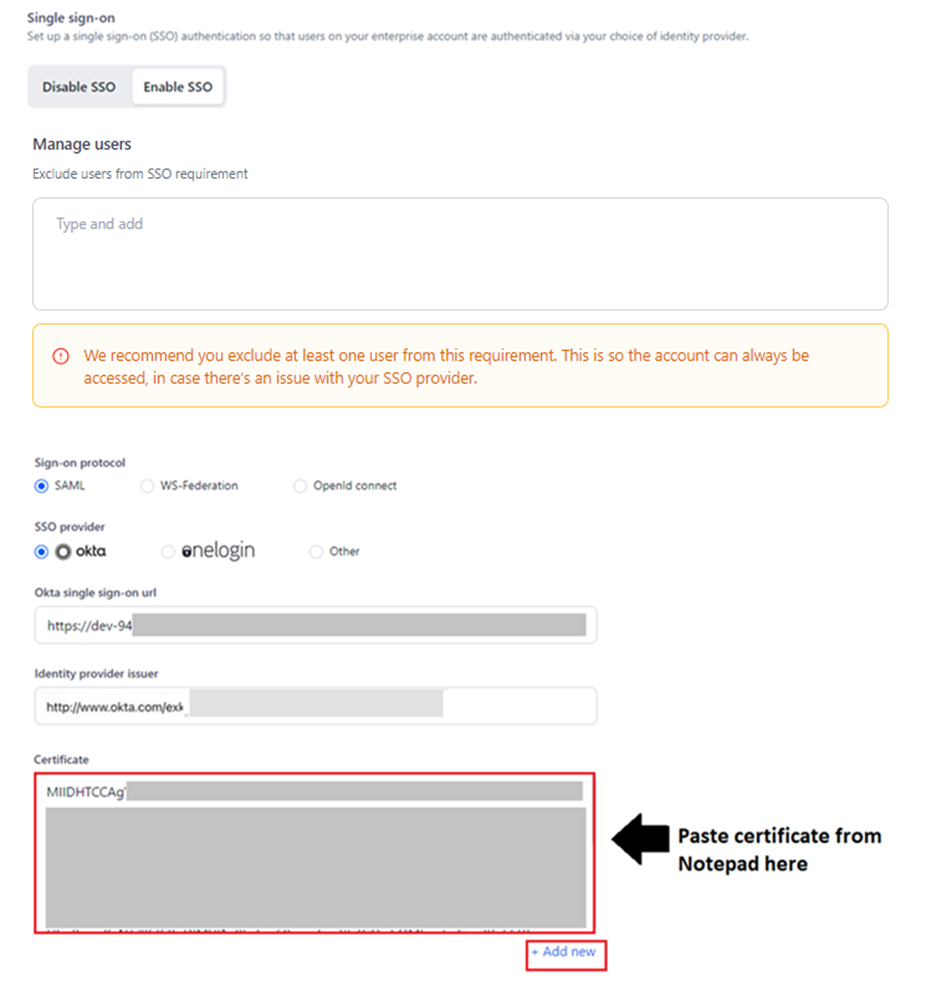
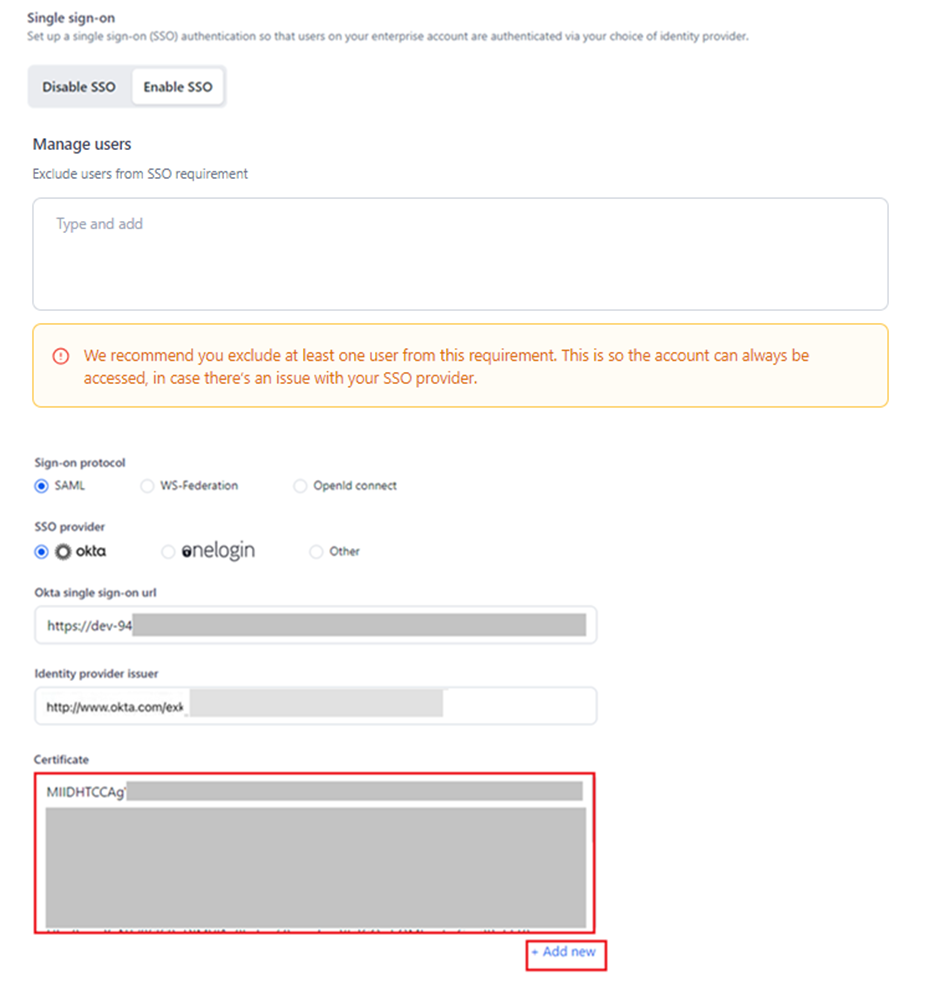
commit: sso page edits

Changed region(s): [[0.6652, 0.8101, 0.9374, 0.9035]]

diff --git a/docs/agent-platform/settings/security-and-control/single-sign-on.md b/docs/agent-platform/settings/security-and-control/single-sign-on.md
@@ -208,15 +208,11 @@ To enable SSO on the **Settings** console, follow the steps below:
 
 <ul><li><b>SAML</b>: <a href="#okta-configuration" target="_blank">Okta</a>, <a href="#onelogin-configuration" target="_blank">Onelogin</a>, or <a href="#other-configuration" target="_blank">Other</a>. <a href="#saml" target="_blank">Learn more</a>.</li>
 <li><b>WS-Federation</b>: <a href="#windows-azure-configuration" target="_blank">Windows Azure</a> or <a href="#other-configuration" target="_blank">Other</a>. <a href="#ws-federation" target="_blank">Learn more</a>.</li>
-<li><b>OpenId connect</b>: <a href="#google-configuration" target="_blank">Google</a>. <a [Learn more](#openid-connect-configuration) target="_blank"></a>.</li></ul>
+<li><b>OpenId connect</b>: <a href="#google-configuration" target="_blank">Google</a>. <a href="#openid-connect-configuration" target="_blank">Learn more</a></li></ul>
 
 <ol start="9"><li>Click <b>Save</b>.</li></ol>
 
-A success message is displayed once the SSO setup is complete.
-<img src="../images/sso-configuration-updated-successfully.png" alt="sso updated successfully message" title="sso updated successfully message" style="border: 1px solid gray; zoom:75%;">
-
-Additionally, the timestamp of when you enabled SSO is displayed as shown below:
-<img src="../images/sso-timestamp.png" alt="sso timestamp" title="sso timestamp" style="border: 1px solid gray; zoom:75%;">
+A success message is displayed once the SSO setup is complete along with the timestamp of when you enabled SSO.
 
 ## SAML
 
@@ -246,7 +242,6 @@ To configure SSO using SAML and Okta, follow the steps below:
 1. Go to Agent Platform’s **Single sign-on** page.
 2. Select the **Enable SSO** tab.
 3. Select **SAML** for **Sign-on protocol** and **Okta** for **SSO provider**.
-<img src="../images/saml-okta-selection.png" alt="saml-okta-selection" title="saml-okta-selection" style="border: 1px solid gray; zoom:75%;">
 
 <div class="admonition note">
 <p class="admonition-title">Note</p>
@@ -332,8 +327,7 @@ To configure SSO using SAML and Onelogin, follow the steps below:
 <li>Click your app to view the <b>Add App</b> page. Optionally, change the display name or the icons displayed to your users in the <i>OneLogin</i> portal, and then click <b>SAVE</b>. The Agent Platform app has been added to your company apps for <i>OneLogin</i> and is listed on the app page.</li>
 <li>Copy the following values from <b>SSO</b> > <b>Enable SAML2.0</b> on Onelogin and paste them into the relevant fields on Agent Platform’s SSO setup page:</li>
     <ul><li><b>OneLogin SAML 2.0 Endpoint (HTTP)</b>: Paste into <b>SAML 2.0 endpoint</b>.</li>
-    <li><b>OneLogin Issuer URL</b>: Paste into <b>Issuer URL</b>.</li>
-    <img src="../images/paste-onelogin-issuer-url.png" alt="paste one login issuer url" title="paste one login issuer url" style="border: 1px solid gray; zoom:75%;"></ul>
+    <li><b>OneLogin Issuer URL</b>: Paste into <b>Issuer URL</b>.</li></ul>
 
 <li>In the <b>OneLogin X.509 Certificate</b> field, click <b>View Details</b>. The <b>Standard Strength Certificate (2048-bit)</b> page is displayed.
 <img src="../images/onelogin-view-details.png" alt="one login view details" title="one login view details" style="border: 1px solid gray; zoom:75%;"></li>
@@ -353,14 +347,11 @@ To add a new certificate, click <b>+Add new</b>.
 <ol start="11"><li>Copy the following field values from Agent Platform’s SSO setup page into the relevant fields in Onelogin:</li>
 
 <ul><li>ACS URL for SP Initiated SAML Flow.</li>
-<li>ACS URL for IDP Initiated SAML Flow.</li>
-<img src="../images/copy-acs-urls.png" alt="copy acs urls" title="copy acs urls" style="border: 1px solid gray; zoom:75%;"></ul>
+<li>ACS URL for IDP Initiated SAML Flow.</li></ul>
 
 <li>Click <b>Save</b> on Agent Platform and Onelogin.</li></ol>
 
 Once SSO for Onelogin is complete, the system redirects to the **Onelogin Sign in** page for Agent Platform account authentication.
-
-<img src="../images/onelogin-sign-in-page.png" alt="one login sign in page" title="one login sign in page" style="border: 1px solid gray; zoom:75%;">
 
 ### Other Configuration
 
@@ -369,13 +360,10 @@ To configure and enable SSO using SAML for other IDPs of your choice, follow the
 1. Go to Agent Platform’s **Single sign-on** page.
 2. Select the **Enable SSO** tab.
 3. Select **SAML** for **Sign-on protocol** and **Other** for **SSO provider**.
-<img src="../images/other-sso-provider.png" alt="other sso provider" title="other sso provider" style="border: 1px solid gray; zoom:75%;">
-
 4. Fetch the necessary SSO configuration parameters listed in [this](../security-and-control/single-sign-on.md/#configuration-parameters){:target="_blank"} table from your app's **Settings** page within the IDP developer portal. 
 5. Paste them into the relevant fields on Agent Platform’s SSO setup page.
 
 To add a new certificate, click **+Add new**.
-<img src="../images/paste-parameters-other-configuration.png" alt="paste parameters for other provider" title="paste parameters for other provider" style="border: 1px solid gray; zoom:75%;">
 
 <div class="admonition note">
 <p class="admonition-title">Note</p>
@@ -414,8 +402,6 @@ To configure SSO using WS-Federation and Windows Azure, follow the steps below:
 
 6. Paste this value into the **Azure AD sign-on end point url** field on Agent Platform’s SSO setup page.
 7. Copy and paste [this](https://login.microsoftonline.com/common/FederationMetadata/2007-06/FederationMetadata.xml){:target="_blank"} URL link into the **Azure AD federation metadata document** field on Agent Platform’s SSO setup page.
-<img src="../images/paste-azure-parameters.png" alt="paste azure parameters" title="paste azure parameters"  style="border: 1px solid gray; zoom:75%;">
-
 8. Click **Save**.
 
 ### Other Configuration
@@ -427,8 +413,6 @@ To configure and enable SSO using WS-Federation and other IDPs of your choice, f
 3. Select **WS-Federation** for **Sign-on protocol** and **Other** to **Configure SSO for WS-Federation**.
 4. Copy and paste the SSO endpoint URL from the IDP’s portal into **AD sign-on end point url** on Agent Platform’s SSO setup page.
 5. Then, copy and paste the URL for the WS-Federation metadata document from the IDP’s portal into the **AD federation metadata document url** on Agent Platform’s SSO setup page.
-<img src="../images/paste-ws-federation-data.png" alt="paste ws federation data" title="paste ws federation data"  style="border: 1px solid gray; zoom:75%;">
-
 6. Click **Save**.
 
 ## OpenID Connect Configuration
@@ -453,8 +437,6 @@ To configure SSO using OpenId Connect and Google, follow the steps below:
 1. Go to Agent Platform’s **Single sign-on** page.
 2. Select the **Enable SSO** tab.
 3. Select **OpenId Connect** for **Sign-on protocol** and **Sign in with Google** to **Configure SSO for OpenId connect**.
-<img src="../images/sign-in-with-google.png" alt="sign in with google" title="sign in with google"  style="border: 1px solid gray; zoom:75%;">
-
 4. Click **Save**.
 
 <div class="admonition note">
@@ -471,13 +453,9 @@ However, you can still view the previously configured SSO parameters for a speci
 
 1. [Access](../security-and-control/single-sign-on.md/#access-single-sign-on){:target="_blank"} the **Single sign on** page.
 2. Click the **Disable SSO** tab.
-<img src="../images/click-disable-sso.png" alt="click disable sso" title="click disable sso" style="border: 1px solid gray; zoom:75%;">
+3. In the confirmation window, click **Yes**.
 
-3. In the **Disable SSO** confirmation window, click **Yes**.
-<img src="../images/disable-sso-screen.png" alt="disable sso screen" title="disable sso screen" style="border: 1px solid gray; zoom:75%;">
-
-The following screen is displayed after SSO is disabled.
-<img src="../images/enable-sso-screen.png" alt="enable sso screen" title="enable sso screen" style="border: 1px solid gray; zoom:75%;">
+You can enable SSO again by clicking the **Enable SSO** button.
 
 ## Exclude Users from the SSO Requirement
 
@@ -503,10 +481,8 @@ To exclude a user from the SSO requirement, follow the steps below:
 
 1. [Navigate](../security-and-control/single-sign-on.md/#access-single-sign-on){:target="_blank"} to the **Single Sign-on** page.
 2. Type and add an email address or select from the dropdown in the **Manage Users** textbox.
-<img src="../images/manage-users-sso.png" alt="manage sso users" title="manage sso users" style="border: 1px solid gray; zoom:75%;">
 
-You can add multiple users to the list, as shown below:
-<img src="../images/add-multiple-users-to-exclude.png" alt="exclude multiple users" title="exclude multiple users" style="border: 1px solid gray; zoom:75%;">
+You can add multiple users by entering an email address and pressing Tab.
 
 <ol start="3"><li>Click <b>Save</b>.</li></ol>
 
